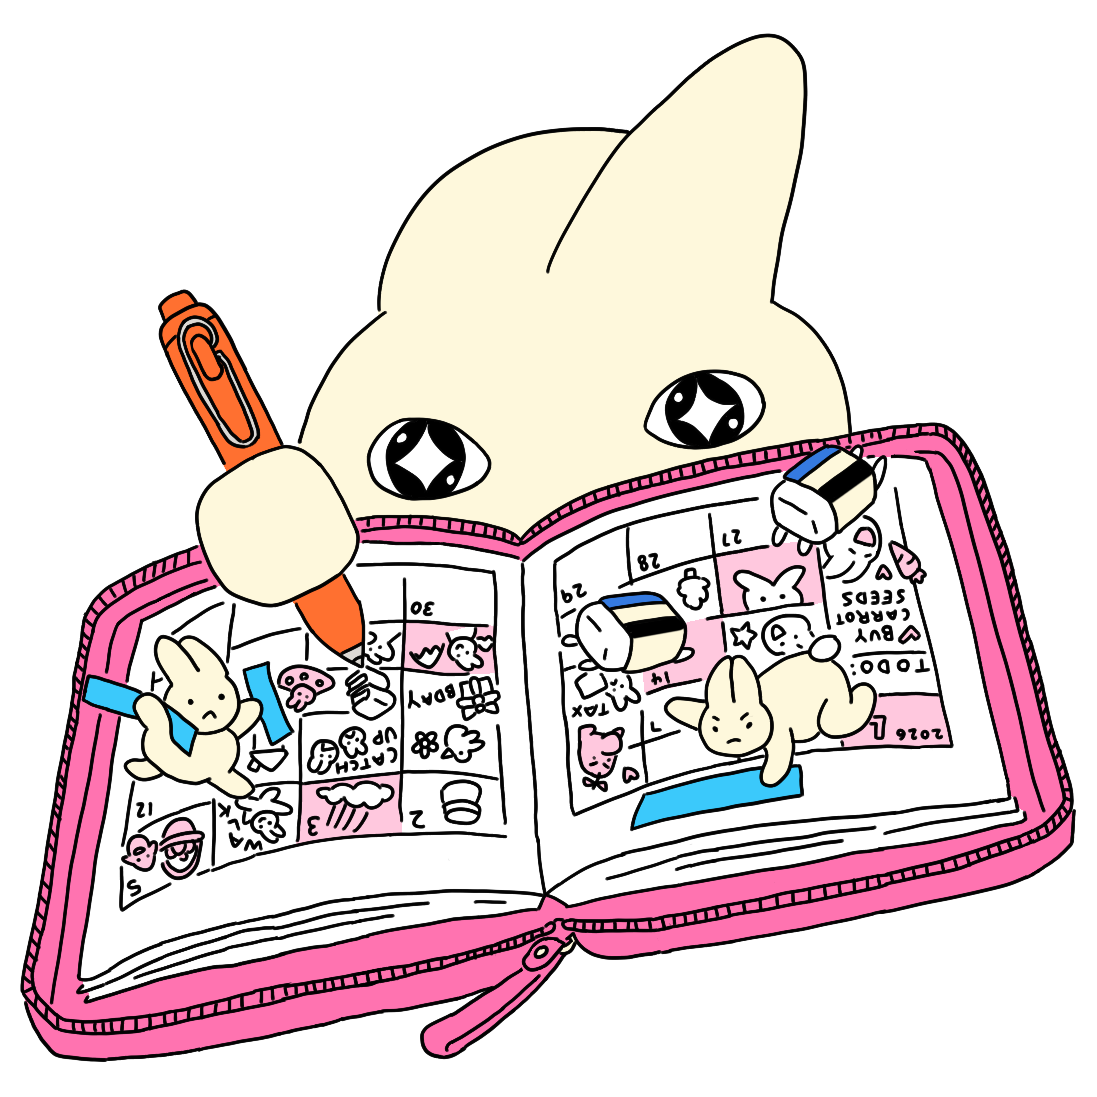
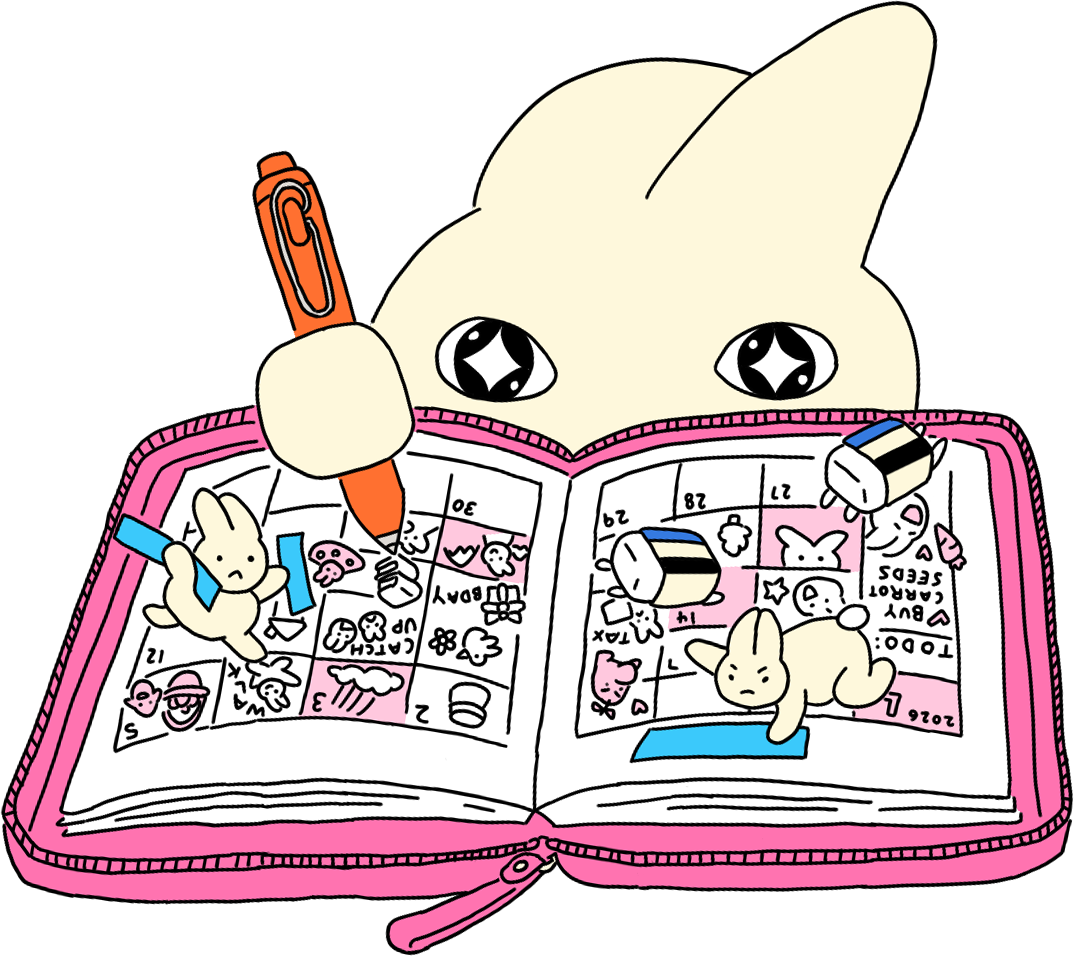
desktop header first pass

diff --git a/css/index.css b/css/index.css
@@ -65,19 +65,42 @@
 
 .header-box {
   position: relative;
-  width: 1200px;
+  width: 66%;
   height: 100%;
 }
 
 .pouch-title-box {
   position: absolute;
-  width: 45%;
+  width: 43%;
   top: 50%;
+  left: 0;
+  display: flex;
+  flex-direction: column;
+  justify-content: center;
+  align-items: center;
 }
 
 .pouch-title {
   background-image: url(/images/issue3/pouch-3-title.svg);
   background-size: contain;
   background-repeat: no-repeat;
-  aspect-ratio: 300 / 97;
+  aspect-ratio: 300 / 82;
+  width: 100%;
+}
+
+.pouch-subtitle {
+  text-align: center;
+  font-family: "Gaegu", sans-serif;
+  font-size: clamp(10px, 3vw, 34px);
+}
+
+.bunny {
+  position: absolute;
+  top: 10%;
+  right: 0;
+  background-image: url(/images/issue3/pouch-journaling-header.png);
+  background-size: contain;
+  background-repeat: no-repeat;
+  aspect-ratio: 1074 / 956;
+  width: 55%;
 }

diff --git a/index.md b/index.md
@@ -6,18 +6,23 @@ script: /scripts/index.js
 skipPouchLogo: true
 isHome: true
 ---
+
 <div class="issue3-scene hero">
   <div class="wall">
     <div class="mountain-bg-left"></div>
     <div class="mountain-bg-right"></div>
     <div class="main-scene">
-      <div class="mountain-bg"></div>
-      <div class="center-stage">
-        <div class="header-box">
-          <div class="pouch-title-box">
-            <div class="pouch-title">
+      <div class="mountain-bg">
+        <div class="center-stage">
+          <div class="header-box">
+            <div class="pouch-title-box">
+              <div class="pouch-title">
+              </div>
+              <div class="pouch-subtitle">
+                Issue 3 is out now!
+              </div>
             </div>
-            <div class="pouch-subtitle">
+            <div class="bunny">
             </div>
           </div>
         </div>